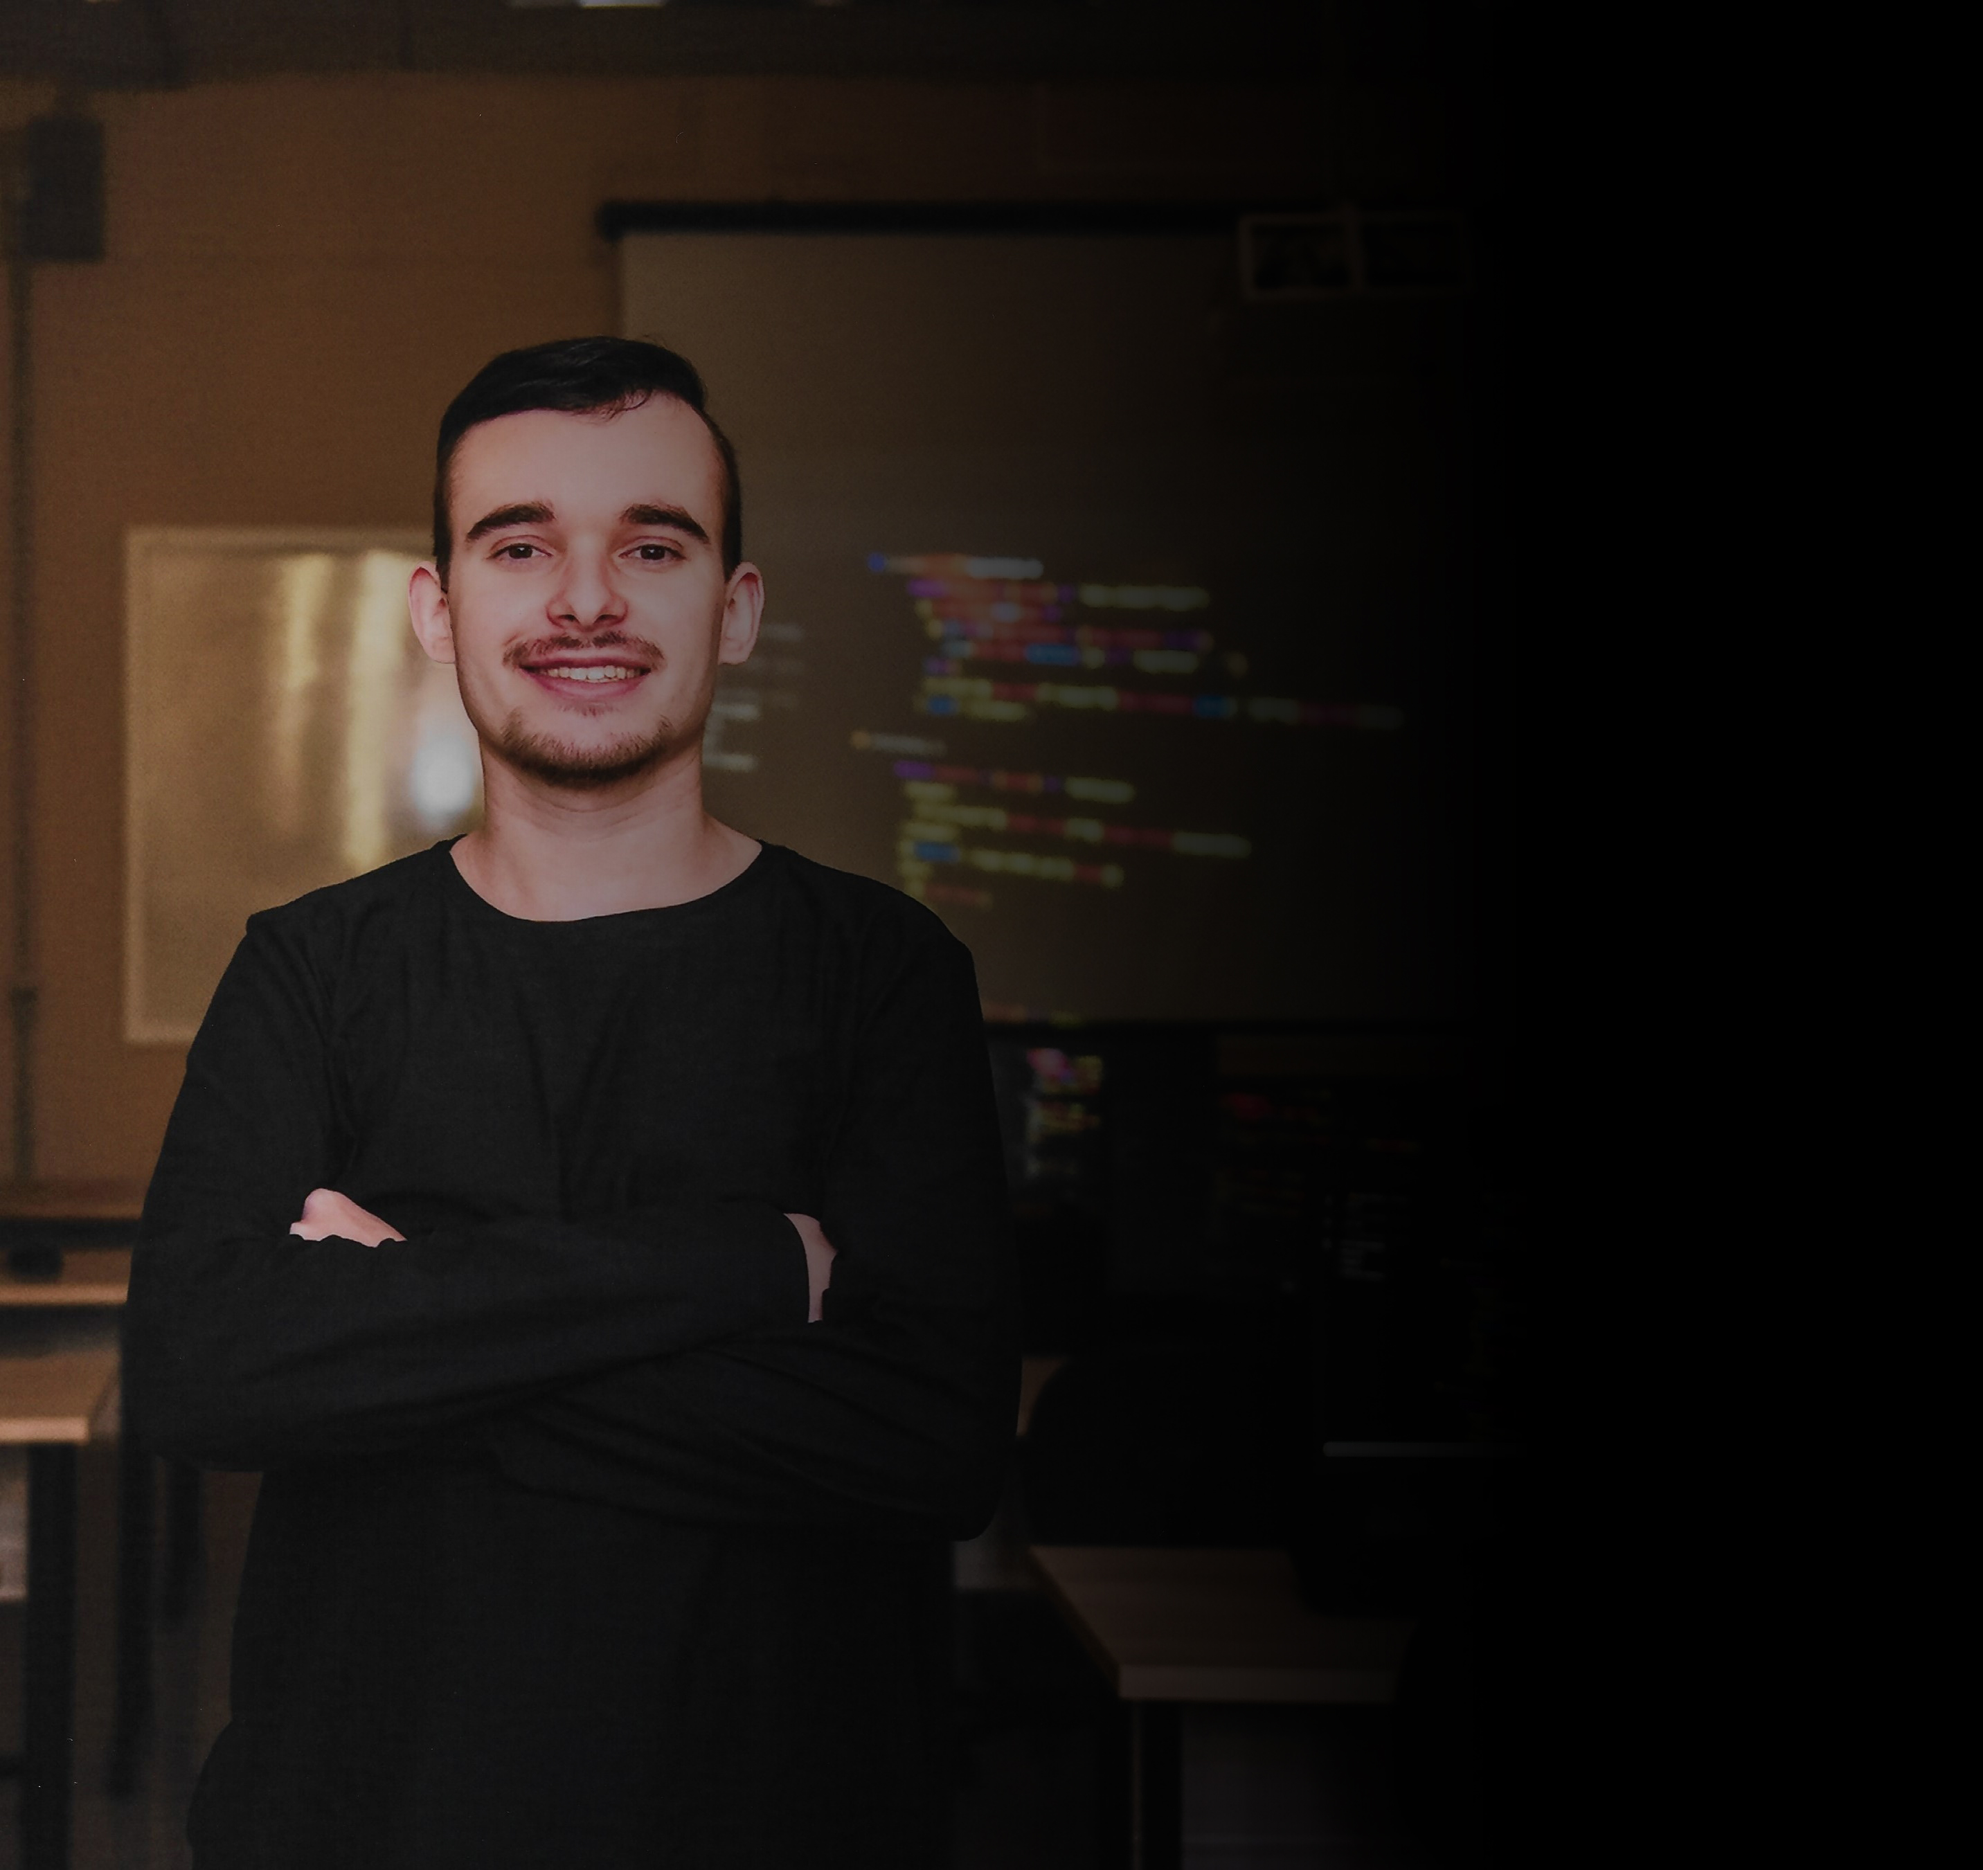
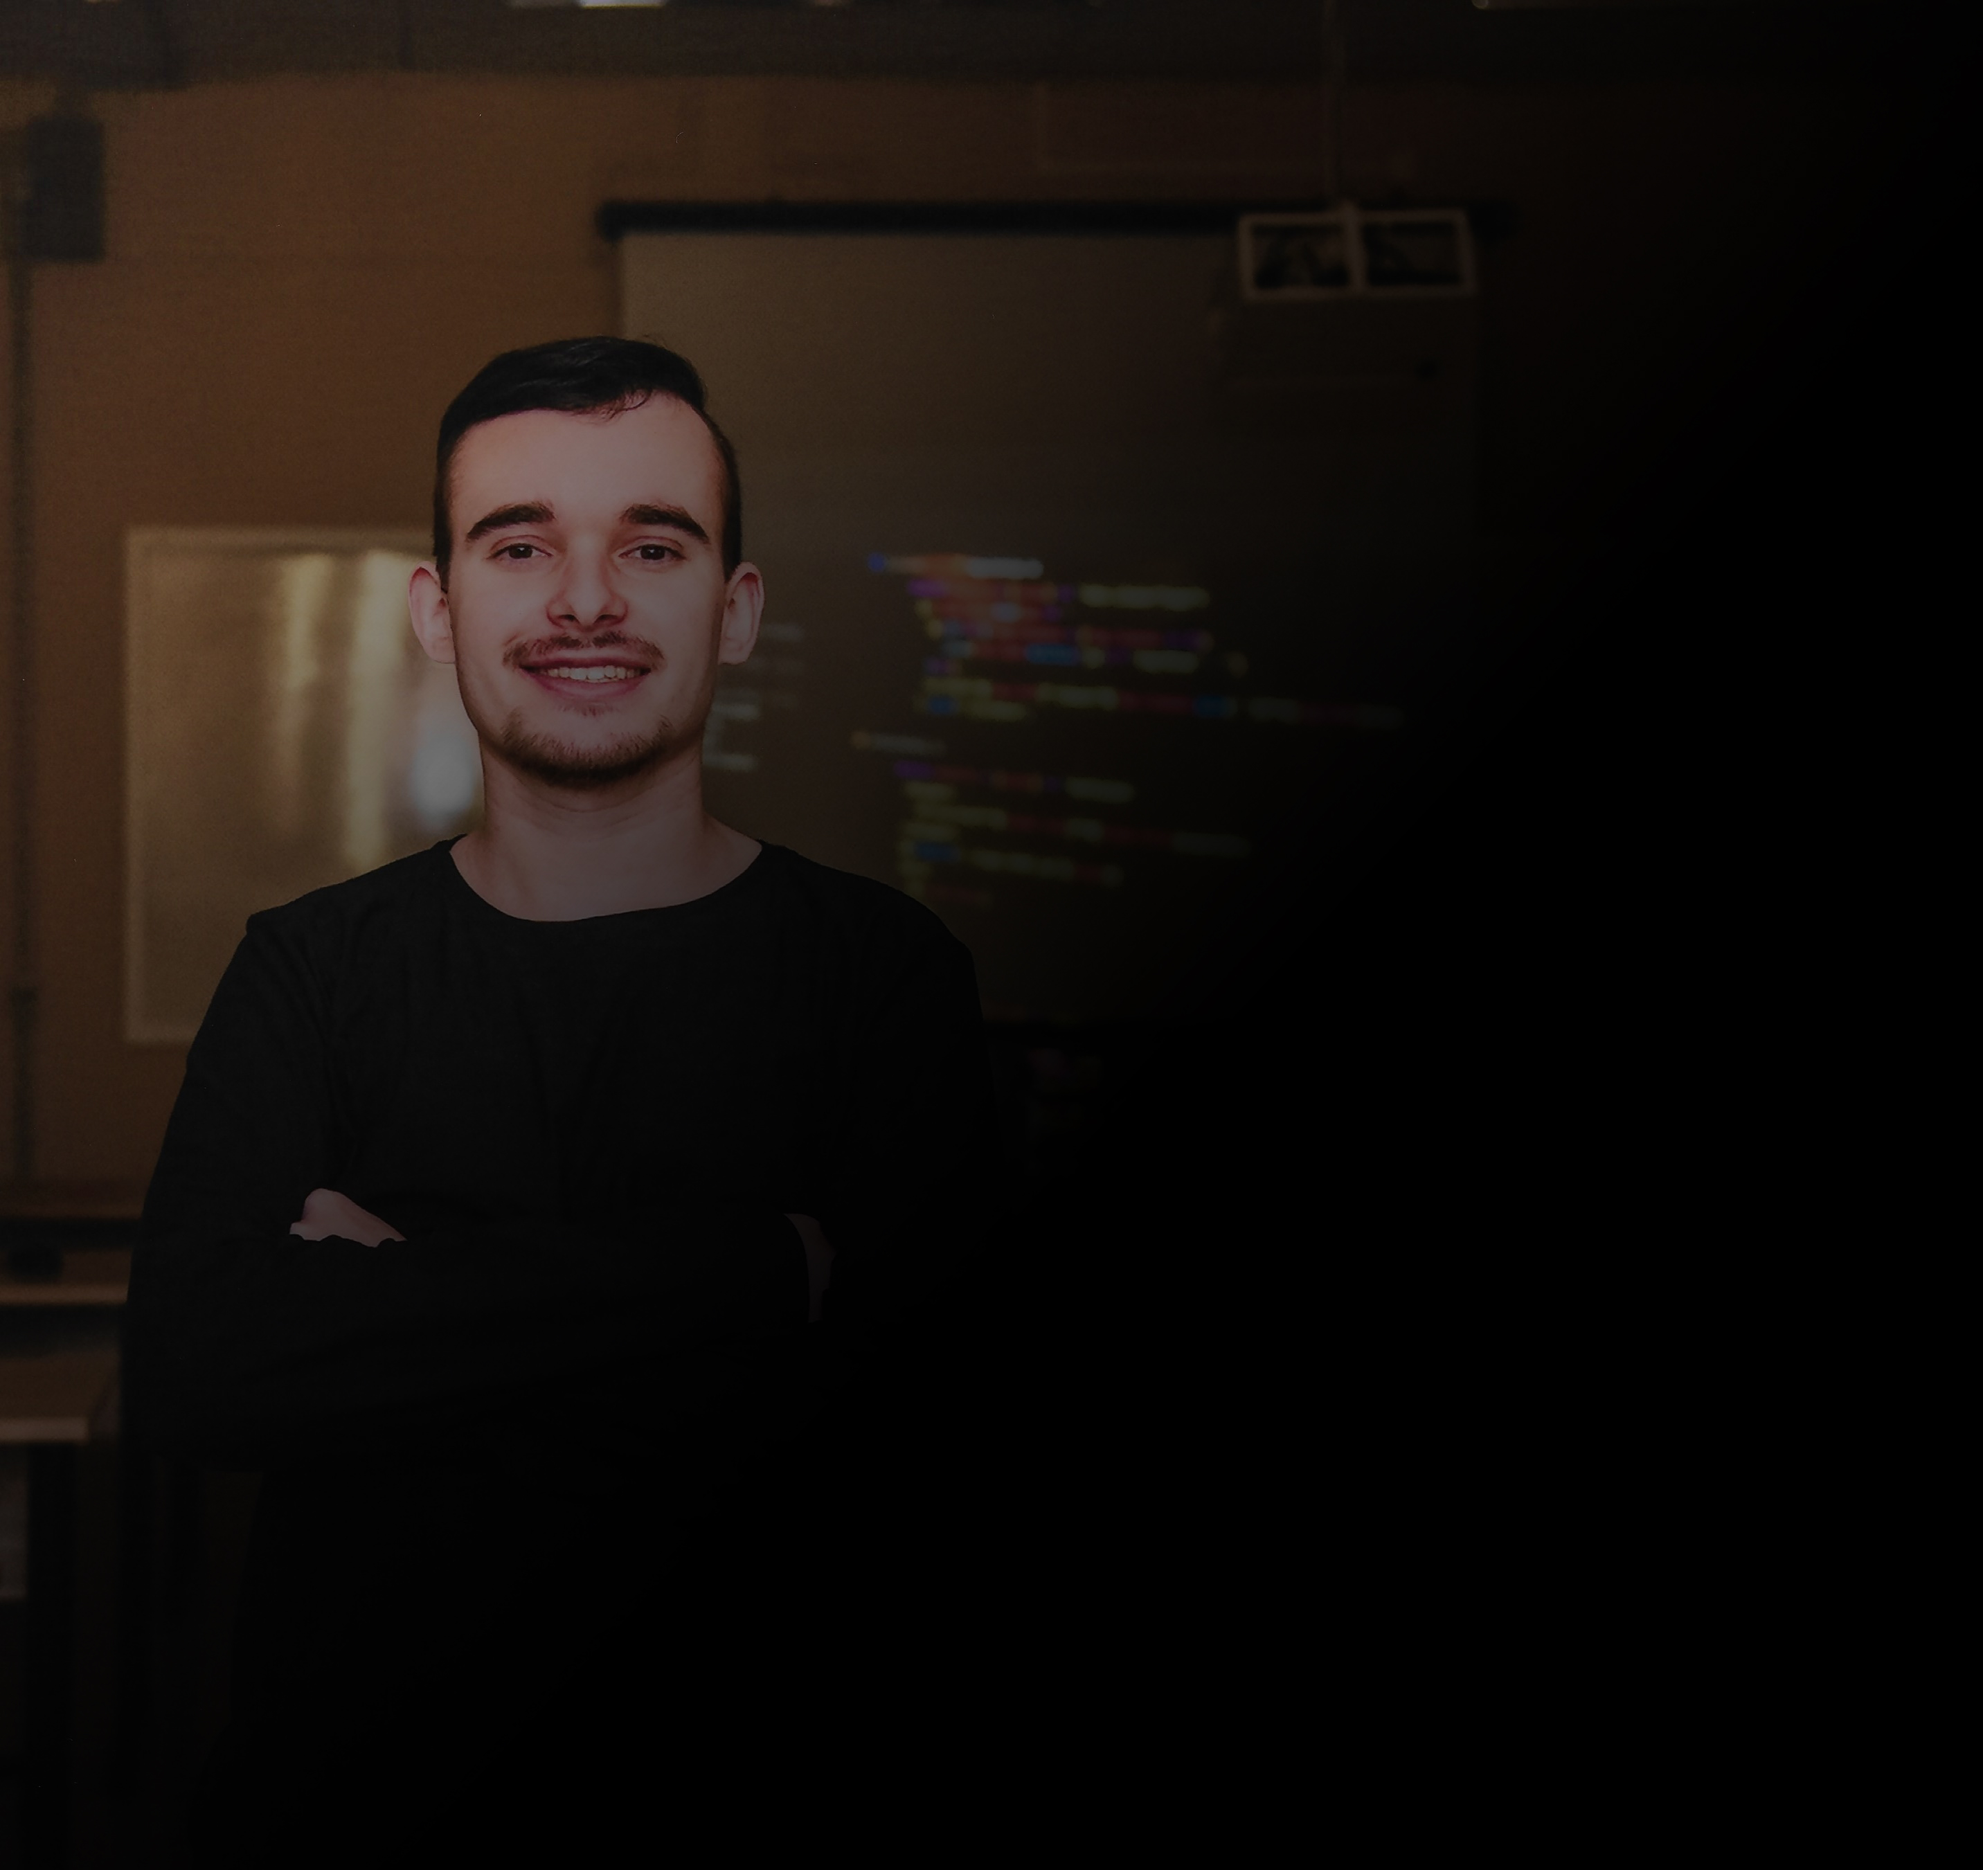
Componente modal para demonstrar projetos

diff --git a/src/components/Modal.css b/src/components/Modal.css
@@ -1,0 +1,78 @@
+
+  
+  /* Modal Overlay */
+  .modal-overlay {
+    position: fixed;
+    top: 0;
+    left: 0;
+    width: 100%;
+    height: 100%;
+    backdrop-filter: blur(8px); /* Adiciona o efeito de blur */
+    background-color: rgba(0, 0, 0, 0.5); /* Fundo escuro com transparência */
+    display: flex;
+    justify-content: center;
+    align-items: center;
+    z-index: 1000; /* Certifique-se de que o modal esteja na frente de outros elementos */
+    color: black;
+  }
+  
+
+/* Modal Content */
+.modal-content {
+    background-color: #fff;
+    padding: 20px;
+    border-radius: 8px;
+    box-shadow: 0px 0px 10px rgba(0, 0, 0, 0.3);
+    max-width: 1000px;
+    max-height: 400px;
+    width: 100%;
+    text-align: center;
+    position: relative; /* Defina a posição relativa no modal */
+  }
+
+.modal-gif {
+    display: block; /* Garante que a margem horizontal seja aplicada corretamente */
+    margin: 0 auto; /* Centraliza horizontalmente a imagem */
+    width: 100%; /* Limita a largura máxima da imagem a 50% do modal */
+    height: auto; /* Mantém a proporção original da imagem */
+}
+
+/* Estilize o botão de fechar */
+.modal-close-button {
+    position: absolute; /* Define a posição absoluta */
+    top: 10px; /* Ajusta a distância do topo (ajuste conforme necessário) */
+    right: 10px; /* Ajusta a distância da direita (ajuste conforme necessário) */
+    background-color: #ff0000; /* Cor do botão de fechar (pode ser personalizado) */
+    color: #fff;
+    border: none;
+    padding: 10px 20px;
+    border-radius: 5px;
+    cursor: pointer;
+    z-index: 1; /* Coloca o botão acima do conteúdo do modal */
+  }
+
+/* Modal Close Button Hover State */
+.modal-close-button:hover {
+    background-color: #cc0000; /* Cor do botão de fechar no hover (pode ser personalizado) */
+}
+  
+
+/* Estilize a classe .modal-flex-container */
+.modal-flex-container {
+    display: flex;
+    justify-content: space-between; /* Divide o espaço disponível igualmente entre as partes */
+  }
+  
+  /* Estilize a classe .modal-left (parte esquerda) */
+  .modal-left {
+    flex: 1; /* A parte esquerda ocupa o mesmo espaço da parte direita */
+  }
+  
+  /* Estilize a classe .modal-right (parte direita) */
+  .modal-right {
+    flex: 1; /* A parte direita ocupa o mesmo espaço da parte esquerda */
+    display: flex;
+    flex-direction: column; /* Empilhe os elementos verticalmente */
+    justify-content: center; /* Centralize verticalmente */
+    align-items: center; /* Centralize horizontalmente */
+  }

diff --git a/src/components/ListaProjetos.js b/src/components/ListaProjetos.js
@@ -1,11 +1,21 @@
-import React from 'react';
+import React, { useState } from 'react';
 import Projeto from './Projeto';
-import './ListaProjetos.css'; // Importe os estilos
+import Modal from './Modal'; // Importe o componente Modal
+import './ListaProjetos.css';
 
 const ListaProjetos = ({ projetos }) => {
+  const [modalAberto, setModalAberto] = useState(false); // Estado para controlar se o modal está aberto
+  const [projetoSelecionado, setProjetoSelecionado] = useState(null); // Estado para armazenar o projeto selecionado
+
   const handleProjetoClick = (index) => {
-    // Implemente a lógica que deseja executar ao clicar em um retângulo.
-    console.log(`Clicou no retângulo ${index}`);
+    // Quando um projeto for clicado, atualize o estado do modal
+    setProjetoSelecionado(projetos[index]);
+    setModalAberto(true);
+  };
+
+  const handleCloseModal = () => {
+    // Função para fechar o modal
+    setModalAberto(false);
   };
 
   return (
@@ -17,6 +27,11 @@ const ListaProjetos = ({ projetos }) => {
           onClick={() => handleProjetoClick(index)}
         />
       ))}
+
+      {/* Renderize o modal com base no estado */}
+      {modalAberto && (
+        <Modal projeto={projetoSelecionado} onClose={handleCloseModal} />
+      )}
     </div>
   );
 };

diff --git a/src/components/Modal.js b/src/components/Modal.js
@@ -1,0 +1,39 @@
+import React from 'react';
+import './Modal.css'; // Importe os estilos do modal
+
+const Modal = ({ projeto, onClose }) => {    
+    const image = require(`../assets/img/${projeto.imageGif}`);
+  return (
+    <div className="modal-overlay">
+      <div className="modal-content">
+        <h2>Detalhes do Projeto</h2>
+        <button className="modal-close-button" onClick={onClose}>
+          Fechar
+        </button>
+        <div className="modal-flex-container">
+          {/* Parte Esquerda (GIF) */}
+          <div className="modal-left">
+            <img
+              src={image}
+              alt="GIF do Projeto"
+              className="modal-gif"
+            />
+          </div>
+          {/* Parte Direita (Outras Informações) */}
+          <div className="modal-right">
+            <div>
+              <h3>Nome do Projeto:</h3>
+              <p>{projeto.nome}</p>
+            </div>
+            <div>
+              <h3>Descrição do Projeto:</h3>
+              <p>{projeto.descricao}</p>
+            </div>
+          </div>
+        </div>
+      </div>
+    </div>
+  );
+};
+
+export default Modal;

diff --git a/src/components/Projeto.css b/src/components/Projeto.css
@@ -1,21 +1,31 @@
+
 .projeto {
-    width: 200px;
-    height: 150px;
-    border: 1px solid #000;
-    cursor: pointer;
-    display: flex;
-    flex-direction: column;
-    align-items: center;
-    justify-content: center;
-    transition: transform 0.2s;
-  }
-  
-  .projeto:hover {
-    transform: scale(1.05);
-  }
-  
-  .projeto img {
-    max-width: 100%;
-    max-height: 100%;
-    object-fit: cover;
-  }
+  width: 30%; /* Largura inicial em relação à largura do container pai */
+  height: 30%; /* Largura inicial em relação à largura do container pai */
+  border: 2px solid #333;
+  cursor: pointer;
+  display: flex;
+  flex-direction: column;
+  align-items: center;
+  justify-content: center;
+  transition: transform 0.2s, box-shadow 0.2s;
+}
+
+.projeto:hover {
+  transform: scale(1.05);
+  box-shadow: 0px 5px 15px rgba(0, 0, 0, 0.2);
+}
+
+.projeto img {
+  max-width: 100%;
+  max-height: 100%;
+  object-fit: cover;
+}
+
+.projeto h2 {
+  margin: 10px 0;
+  font-family: 'Arial', sans-serif;
+  font-size: 18px;
+  text-align: center;
+  color: #333;
+}

diff --git a/src/components/SobreMim.css b/src/components/SobreMim.css
@@ -1,6 +1,7 @@
 .sobre-mim {
   width: 98%;    
   height: 100vh; /* Ocupa a altura total da tela */
+  min-height: 800px;
   text-align: left;
   display: flex;
   flex-direction: row; /* Mudamos de column para row para alinhar a imagem à esquerda */
@@ -72,9 +73,12 @@
   .sobre-mim {
     display: inline-grid;
   }
+}
 
+/* Ocultar a imagem em telas menores */
+@media screen and (max-width: 1000px) {
   .logo-container-left,
   .logo-container-right {
-    max-width: 100%;
+    max-width: 95%;
   }
 }

diff --git a/src/components/Banner/Banner.css b/src/components/Banner/Banner.css
@@ -2,6 +2,7 @@
   background-color: #000; /* Fundo preto */
   width: 100%; /* Ocupa toda a largura da tela */
   height: 100vh; /* Ocupa toda a altura da tela */
+  min-height: 800px;
   display: flex;
   flex-direction: row; /* Mudamos de column para row para alinhar a imagem à esquerda */
   align-items: center;
@@ -9,8 +10,7 @@
 }
 
 .banner-content {
-  display: flex;
-  align-items: center;
+  position: relative;
 }
 
 .banner-image {

diff --git a/src/App.js b/src/App.js
@@ -12,9 +12,15 @@ function App() {
   const projetos = [
     {
       imageSrc: 'FotoBanner_old.jpg',
+      imageGif: 'animated.gif',
+      descricao: 'Teste',
+      nome: 'Teste Nome'
     },
     {
       imageSrc: 'FotoBanner_old.jpg',
+      imageGif: 'animated.gif',
+      descricao: 'Teste',
+      nome: 'Teste Nome'
     },
     // Adicione mais projetos conforme necessário
   ];

diff --git a/src/components/ListaProjetos.css b/src/components/ListaProjetos.css
@@ -1,8 +1,10 @@
-/* ListaProjetos.css (opcional) */
 .projeto-list {
-    margin: 40px;
-    display: flex;
-    flex-wrap: wrap;
-    gap: 10px;
-    justify-content: center;
-  }
+  margin-top: 10px;
+  height: 100vh;
+  min-height: 800px;
+  padding: 20px;
+  display: flex;
+  flex-wrap: wrap;
+  gap: 20px;
+  justify-content: center;
+}

diff --git a/src/components/Banner/Banner.js b/src/components/Banner/Banner.js
@@ -1,6 +1,6 @@
 import React from 'react';
 import './Banner.css';
-import FotoBanner from '../../assets/img/FotoBanner_novo.jpg'; // Importe a imagem corretamente
+import FotoBanner from '../../assets/img/FotoBanner.jpg'; // Importe a imagem corretamente
 
 function Banner() {
   return (

diff --git a/src/components/Header.css b/src/components/Header.css
@@ -7,6 +7,7 @@ header {
     width: 100%;
     border: 0px solid #ccc;
     transition: all ease-in 0.3s;
+    z-index: 8;
 }
 
 .ativaCor {
